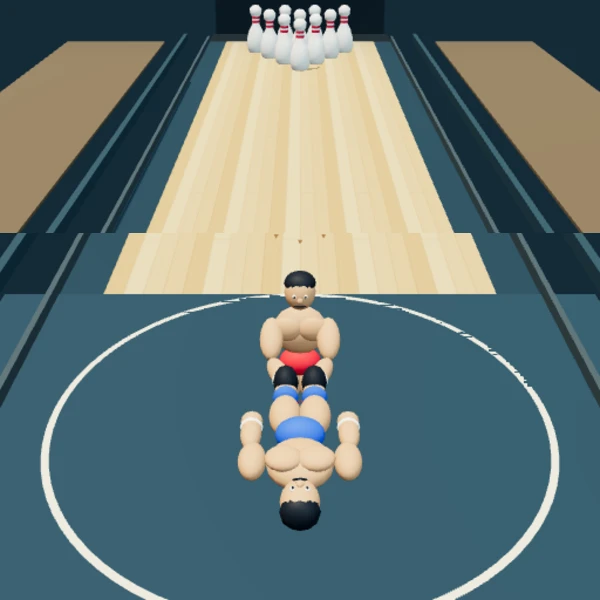
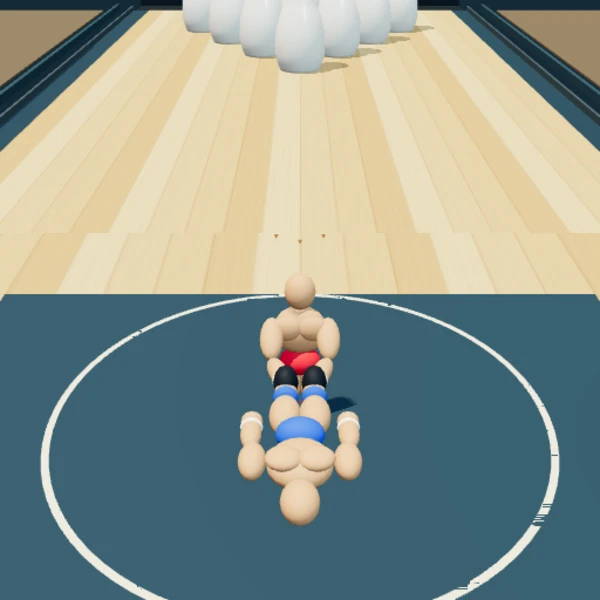
顔と髪を外し巨大ピンとレスラー追従カメラに調整

diff --git a/games/_random-bowling/scene.js b/games/_random-bowling/scene.js
@@ -6,13 +6,13 @@ var ZWrestleScene=(function(){
     this.renderer=new T.WebGLRenderer({antialias:true,alpha:false,preserveDrawingBuffer:true});
     this.renderer.setPixelRatio(1);this.renderer.shadowMap.enabled=true;this.renderer.shadowMap.type=T.PCFSoftShadowMap;
     this.renderer.outputColorSpace=T.SRGBColorSpace;this.renderer.toneMapping=T.ACESFilmicToneMapping;this.renderer.toneMappingExposure=1.25;
-    this.scene=new T.Scene();this.scene.scale.x=-1;this.scene.background=new T.Color('#142a37');this.scene.fog=new T.Fog('#142a37',42,85);
-    this.camera=new T.PerspectiveCamera(52,540/960,.08,100);
+    this.scene=new T.Scene();this.scene.scale.x=-1;this.scene.background=new T.Color('#142a37');this.scene.fog=new T.Fog('#142a37',65,150);
+    this.camera=new T.PerspectiveCamera(52,540/960,.08,350);
     this.camera.position.set(0,9,-12);this.camera.lookAt(0,0,14);
-    this.follow=0;this.followX=0;this.look=new T.Vector3(0,0,9);this.w=540;this.h=960;
+    this.follow=0;this.followX=0;this.look=new T.Vector3(0,.8,12);this.followY=0;this.w=540;this.h=960;
     this.scene.add(new T.HemisphereLight('#deefff','#625743',2.1));
     var light=new T.DirectionalLight('#fff1d5',3.3);light.position.set(-4,14,18);light.castShadow=true;
-    light.shadow.mapSize.set(2048,2048);Object.assign(light.shadow.camera,{left:-8,right:8,top:28,bottom:-28,near:1,far:65});light.target.position.set(0,0,20);light.shadow.bias=-.0002;this.scene.add(light,light.target);
+    light.shadow.mapSize.set(2048,2048);Object.assign(light.shadow.camera,{left:-18,right:18,top:35,bottom:-35,near:1,far:90});light.target.position.set(0,0,20);light.shadow.bias=-.0002;this.scene.add(light,light.target);
     var fill=new T.DirectionalLight('#9dcede',1.3);fill.position.set(5,6,-8);this.scene.add(fill);
     function mat(color,roughness,metalness){return new T.MeshStandardMaterial({color:color,roughness:roughness==null?.5:roughness,metalness:metalness||0});}
     function box(x,y,z,w,h,d,m){var mesh=new T.Mesh(new T.BoxGeometry(w,h,d),m);mesh.position.set(x,y,z);mesh.receiveShadow=true;mesh.castShadow=true;self.scene.add(mesh);return mesh;}
@@ -24,12 +24,12 @@ var ZWrestleScene=(function(){
       for(var y=100+(i%4)*150;y<1024;y+=470){c.fillStyle='rgba(74,48,26,.13)';c.fillRect(i*25.6,y,25.6,1);}
     }
     var wt=new T.CanvasTexture(wood);wt.colorSpace=T.SRGBColorSpace;wt.anisotropy=Math.min(8,this.renderer.capabilities.getMaxAnisotropy());
-    var lane=new T.Mesh(new T.PlaneGeometry(8,39),new T.MeshStandardMaterial({map:wt,roughness:.3,metalness:.05}));lane.rotation.x=-Math.PI/2;lane.position.set(0,.002,16.5);lane.receiveShadow=true;this.scene.add(lane);
-    box(0,-.22,16.5,10,.4,39,mat('#273d49',.5));
-    [-1,1].forEach(function(s){box(s*4.45,-.12,16.5,.9,.13,39,mat('#0a1820',.28,.4));box(s*4.96,.1,16.5,.12,.38,39,mat('#70838b',.28,.65));});
-    box(0,-.28,37.5,10,.3,3,mat('#101d25',.85));box(0,.9,41,10,3,.3,mat('#10222d',.75));
+    var lane=new T.Mesh(new T.PlaneGeometry(20,50),new T.MeshStandardMaterial({map:wt,roughness:.3,metalness:.05}));lane.rotation.x=-Math.PI/2;lane.position.set(0,.002,22);lane.receiveShadow=true;this.scene.add(lane);
+    box(0,-.22,22,22,.4,50,mat('#273d49',.5));
+    [-1,1].forEach(function(s){box(s*10.5,-.12,22,1,.13,50,mat('#0a1820',.28,.4));box(s*11.06,.1,22,.12,.38,50,mat('#70838b',.28,.65));});
+    box(0,-.28,48.5,22,.3,3,mat('#101d25',.85));box(0,3.2,50,22,7,.3,mat('#10222d',.75));
     // 隣のレーンは暗く控えめに置き、奥行きを見せる。
-    [-1,1].forEach(function(s){box(s*10,-.05,16,5.3,.1,40,mat('#675846',.48));box(s*6.2,.22,16,.2,.4,40,mat('#304751',.5));});
+    [-1,1].forEach(function(s){box(s*23,-.05,22,20,.1,50,mat('#675846',.48));box(s*12,.22,22,.2,.4,50,mat('#304751',.5));});
     for(var i=-3;i<=3;i++){var shape=new T.Shape();shape.moveTo(-.055,0);shape.lineTo(.055,0);shape.lineTo(0,.22);shape.closePath();var arrow=new T.Mesh(new T.ShapeGeometry(shape),mat('#765331',.8));arrow.rotation.x=-Math.PI/2;arrow.position.set(i*.55,.009,6.5+Math.abs(i)*.3);this.scene.add(arrow);}
     this.pinMaterial=mat('#f5f0e6',.24,.04);this.redMaterial=mat('#c52d40',.3);
     var profile=[[0,0],[0,.19],[.05,.22],[.19,.26],[.42,.25],[.64,.19],[.81,.105],[1.02,.105],[1.1,.16],[1.24,.17],[1.33,.09],[1.35,.001]];
@@ -56,7 +56,6 @@ var ZWrestleScene=(function(){
     var T=THREE,root=new T.Group(),parts={},skin=new T.MeshStandardMaterial({color:'#d69c74',roughness:.65}),pants=new T.MeshStandardMaterial({color:color,roughness:.65}),black=new T.MeshStandardMaterial({color:'#17202b',roughness:.6}),white=new T.MeshStandardMaterial({color:'#fff3dc',roughness:.6});
     ZWrestlePhysics.parts.forEach(function(p){var g=new T.Group(),geo=new T.SphereGeometry(1,16,12);geo.scale(p.size[0],p.size[1],p.size[2]);var body=new T.Mesh(geo,p.shape==='pelvis'?pants:skin);body.castShadow=true;body.receiveShadow=true;g.add(body);g.position.set(p.p[0],p.p[1],p.p[2]);root.add(g);parts[p.id]=g;
       function ellipsoid(x,y,z,sx,sy,sz,m){var mesh=new T.Mesh(new T.SphereGeometry(1,12,8),m);mesh.position.set(x,y,z);mesh.scale.set(sx,sy,sz);mesh.castShadow=true;g.add(mesh);}
-      if(p.shape==='head'){ellipsoid(0,.13,-.03,.245,.18,.22,black);[-1,1].forEach(function(s){ellipsoid(s*.085,.025,.205,.035,.035,.025,white);ellipsoid(s*.085,.025,.226,.014,.020,.008,black);});ellipsoid(0,-.035,.235,.047,.05,.035,skin);ellipsoid(0,-.14,.20,.095,.018,.02,black);}
       if(p.shape==='shin'){ellipsoid(0,-.16,.065,.18,.22,.25,black);ellipsoid(0,.15,.035,.18,.10,.18,pants);}
       if(p.shape==='forearm'){ellipsoid(0,-.14,0,.155,.07,.15,white);ellipsoid(0,-.26,0,.15,.12,.14,skin);}
     });
@@ -65,9 +64,12 @@ var ZWrestleScene=(function(){
   Scene.prototype.resize=function(w,h){this.w=w;this.h=h;this.renderer.setSize(w,h,false);this.camera.aspect=w/h;this.camera.fov=2*Math.atan(Math.tan(31*Math.PI/180)*(h/w)/(960/540))*180/Math.PI;this.camera.updateProjectionMatrix();};
   Scene.prototype.project=function(x,y,z){var v=new THREE.Vector3(-x,y,z).project(this.camera);return {x:(v.x*.5+.5)*540,y:(.5-v.y*.5)*this.logicalH};};
   Scene.prototype.draw=function(ctx,W,H,data,phase,angle,omega,dt){
-    var T=THREE;this.logicalH=H;var flying=phase==='flight'||phase==='settle',body=data.human[0],target=flying&&body?Math.max(0,Math.min(22,body.z-2)):0;
-    this.follow+=(target-this.follow)*(1-Math.exp(-4*dt));this.followX+=((flying&&body?Math.max(-2,Math.min(2,body.x*.3)):0)-this.followX)*(1-Math.exp(-3*dt));
-    this.camera.position.set(-this.followX,9-this.follow/22*3.5,-12+this.follow);this.camera.lookAt(-this.followX*.5,.8,12+this.follow*.65);this.camera.updateMatrixWorld();
+    var T=THREE;this.logicalH=H;var flying=phase==='flight'||phase==='settle',body=data.human[0];
+    // 前進量を上限で止めず、青レスラーの左右・高さ・奥行きを追う。
+    var track=flying&&body,blend=1-Math.exp(-8*dt);this.follow+=((track?body.z:0)-this.follow)*blend;this.followX+=((track?body.x:0)-this.followX)*blend;this.followY+=((track?body.y:0)-this.followY)*blend;
+    var eye=track?new T.Vector3(-this.followX,this.followY+6.5,this.follow-10):new T.Vector3(0,9,-12);
+    this.camera.position.lerp(eye,1-Math.exp(-9*dt));
+    this.look.lerp(track?new T.Vector3(-body.x,body.y+.4,body.z):new T.Vector3(0,.8,12),1-Math.exp(-12*dt));this.camera.lookAt(this.look);this.camera.updateMatrixWorld();
     this.pins.forEach(function(g,i){var p=data.pins[i];g.position.set(p.x,p.y,p.z);g.quaternion.set(p.q.x,p.q.y,p.q.z,p.q.w);});
     var red=this.red;red.root.rotation.y=Math.PI/2-angle;red.root.position.y=phase==='swing'?Math.sin(angle*2)*.04:0;
     // 赤は足を踏み替え、両手で青の足首を持つ。

diff --git a/games/_random-bowling/physics.js b/games/_random-bowling/physics.js
@@ -1,7 +1,7 @@
 /* レッスルボウル。関節でつないだレスラーと大型ピンの剛体計算。 */
 var ZWrestlePhysics=(function(C){
   'use strict';
-  var scale=1.8,parts=[
+  var scale=4.5,parts=[
     {id:'pelvis',shape:'pelvis',p:[0,1.08,0],size:[.33,.22,.23],mass:16},
     {id:'torso',shape:'torso',p:[0,1.64,0],size:[.43,.40,.24],mass:28},
     {id:'head',shape:'head',p:[0,2.30,0],size:[.24,.29,.23],mass:6}
@@ -26,16 +26,16 @@ var ZWrestlePhysics=(function(C){
     this.world.addContactMaterial(new C.ContactMaterial(this.pinMat,this.humanMat,{friction:.32,restitution:.25}));
     var self=this;
     function box(x,y,z,w,h,d){self.world.addBody(new C.Body({mass:0,material:self.floorMat,collisionFilterGroup:1,shape:new C.Box(new C.Vec3(w/2,h/2,d/2)),position:new C.Vec3(x,y,z)}));}
-    box(0,-.2,18,8,.4,40);box(0,-.2,-1,12,.4,10);
-    [-1,1].forEach(function(s){box(s*4.45,-.4,20,.9,.3,36);box(s*4.96,.1,20,.12,.8,36);});
-    box(0,-.3,39.5,10,.4,3);box(0,1.5,41,10,3,.3);
+    box(0,-.2,22,20,.4,50);box(0,-.2,-1,12,.4,10);
+    [-1,1].forEach(function(s){box(s*10.5,-.4,22,1,.3,50);box(s*11.06,.1,22,.12,.8,50);});
+    box(0,-.3,48.5,22,.4,3);box(0,3.2,50,22,7,.3);
     this.pins=[];this.bodies=[];this.joints=[];this.grabs=[];this.hands=[];this.reset();
   }
   Game.prototype.reset=function(){
     var self=this;this.releaseHands();this.released=false;this.joints.forEach(function(j){self.world.removeConstraint(j);});this.bodies.forEach(function(b){self.world.removeBody(b);});this.pins.forEach(function(p){self.world.removeBody(p.body);});
     this.bodies=[];this.joints=[];this.pins=[];this.time=0;this.accumulator=0;this.impact=0;
     for(var row=0;row<4;row++)for(var col=0;col<=row;col++){
-      var b=new C.Body({mass:6,material:this.pinMat,collisionFilterGroup:2,position:new C.Vec3((col-row/2)*1.5,.47*scale,29+row*1.4),linearDamping:.22,angularDamping:.24});
+      var b=new C.Body({mass:12,material:this.pinMat,collisionFilterGroup:2,position:new C.Vec3((col-row/2)*3.75,.47*scale,29+row*3.5),linearDamping:.22,angularDamping:.24});
       b.addShape(new C.Cylinder(.26*scale,.21*scale,.5*scale,12),new C.Vec3(0,-.20*scale,0));
       b.addShape(new C.Cylinder(.105*scale,.26*scale,.35*scale,12),new C.Vec3(0,.225*scale,0));
       b.addShape(new C.Cylinder(.105*scale,.105*scale,.23*scale,12),new C.Vec3(0,.515*scale,0));
@@ -81,10 +81,10 @@ var ZWrestlePhysics=(function(C){
   Game.prototype.step=function(dt){
     if(!this.bodies.length||this.holding)return;this.accumulator+=Math.min(dt,.1);
     while(this.accumulator>=1/180){var fast=this.bodies.some(function(b){return b.velocity.length()>35;}),steps=fast?4:2;for(var i=0;i<steps;i++)this.world.step(1/180/steps);this.accumulator-=1/180;this.time+=1/180;}
-    this.pins.forEach(function(p){var up=p.body.quaternion.vmult(new C.Vec3(0,1,0));if(up.y<.7||p.body.position.y<.23*scale||Math.abs(p.body.position.x)>4)p.down=true;});
+    this.pins.forEach(function(p){var up=p.body.quaternion.vmult(new C.Vec3(0,1,0));if(up.y<.7||p.body.position.y<.23*scale||Math.abs(p.body.position.x)>10)p.down=true;});
   };
   Game.prototype.snapshot=function(){return {pins:this.pins.map(function(p){var v=pose(p.body);v.down=p.down;return v;}),human:this.bodies.map(function(b,i){var v=pose(b);v.id=parts[i].id;return v;}),time:this.time};};
-  Game.prototype.finished=function(){if(!this.bodies.length||this.holding)return false;if(this.time>9)return true;var center=this.bodies[0].position,still=this.pins.every(function(p){return p.body.velocity.length()<.2&&p.body.angularVelocity.length()<.3;});return this.time>2.5&&still&&(center.y<-3||center.z<-8||Math.abs(center.x)>12||this.bodies.every(function(b){return b.velocity.length()<.4;})||center.z>37);};
+  Game.prototype.finished=function(){if(!this.bodies.length||this.holding)return false;if(this.time>9)return true;var center=this.bodies[0].position,still=this.pins.every(function(p){return p.body.velocity.length()<.2&&p.body.angularVelocity.length()<.3;});return this.time>2.5&&still&&(center.y<-3||center.z<-8||Math.abs(center.x)>24||this.bodies.every(function(b){return b.velocity.length()<.4;})||center.z>47);};
   return {Game:Game,parts:parts,pinScale:scale,swingPose:swingPose,headDirection:headDirection};
 })(typeof CANNON!=='undefined'?CANNON:require('./vendor/cannon.js'));
 if(typeof module!=='undefined')module.exports=ZWrestlePhysics;

diff --git a/games/_tools/tests/random-bowling-render.js b/games/_tools/tests/random-bowling-render.js
@@ -2,7 +2,7 @@
 var fs=require('fs'),path=require('path'),http=require('http'),os=require('os'),cp=require('child_process');
 var root=path.resolve(__dirname,'../../..'),out=fs.mkdtempSync(path.join(os.tmpdir(),'bowling-view-'));
 var child,timer;
-var hook=`window.__visual={hold:function(){down(270,600);for(var i=0;i<180;i++)update(1/60);draw();if(omega<13)throw Error('長押しで最大回転へ加速しない');},fit:function(){var oldH=H,oldAngle=angle;for(var h of [780,960,1200,1700]){H=h;view3d.resize(540,h);for(var a of [0,Math.PI/2,Math.PI,-Math.PI/2]){angle=a;draw();for(var p of ZWrestlePhysics.swingPose(a)){var screen=view3d.project(p.x,p.y,p.z);if(screen.x<8||screen.x>532||screen.y<20||screen.y>h-20)throw Error('回転するレスラーが画面外に出る');}}}H=oldH;angle=oldAngle;layout();draw();},side:function(){angle=.35;draw();}};`;
+var hook=`window.__visual={appearance:function(){if(view3d.red.parts.head.children.length!==1||view3d.blue.parts.head.children.length!==1)throw Error('顔や髪が残っている');},tracking:function(){var p=snapshot.human[0],screen=view3d.project(p.x,p.y,p.z);if(screen.x<60||screen.x>480||screen.y<100||screen.y>H-100)throw Error('飛行中のレスラーが画面から外れる');},hold:function(){down(270,600);for(var i=0;i<180;i++)update(1/60);draw();if(omega<13)throw Error('長押しで最大回転へ加速しない');},fit:function(){var oldH=H,oldAngle=angle;for(var h of [780,960,1200,1700]){H=h;view3d.resize(540,h);for(var a of [0,Math.PI/2,Math.PI,-Math.PI/2]){angle=a;draw();for(var p of ZWrestlePhysics.swingPose(a)){var screen=view3d.project(p.x,p.y,p.z);if(screen.x<8||screen.x>532||screen.y<20||screen.y>h-20)throw Error('回転するレスラーが画面外に出る');}}}H=oldH;angle=oldAngle;layout();draw();},side:function(){angle=.35;draw();}};`;
 
 var runner=`<script>
 window.__recordManual=true;
@@ -11,10 +11,10 @@ window.__recordManual=true;
  async function save(name){var cv=document.getElementById('c');await fetch('/__save/'+name,{method:'POST',body:await new Promise(function(r){cv.toBlob(r,'image/png');})});}
  try{
   for(var i=0;i<100&&!window.__probe.now().modelsReady;i++)await new Promise(function(r){setTimeout(r,50);});
-  if(!window.__probe.now().modelsReady)throw Error('模型を読み込めない');window.__probe.step(1);if(window.__probe.now().scoreTime!==0)throw Error('初期スコアが表示中');window.__visual.fit();await save('構え.png');window.__visual.side();await save('横向き.png');window.__probe.reset();
+  if(!window.__probe.now().modelsReady)throw Error('模型を読み込めない');window.__probe.step(1);if(window.__probe.now().scoreTime!==0)throw Error('初期スコアが表示中');window.__visual.fit();window.__visual.appearance();await save('構え.png');window.__visual.side();await save('横向き.png');window.__probe.reset();
   window.__visual.hold();await save('スイング.png');window.__probe.reset();key();window.__probe.step(90);
   for(var i=0;i<500;i++){window.__probe.step(1);var n=window.__probe.now();if(n.swingTime>2&&n.human[2].z>n.human[0].z&&Math.abs((n.human[2].x-n.human[0].x)/(n.human[2].z-n.human[0].z))<.08)break;}
-  key(true);window.__probe.step(18);await save('投げ.png');window.__probe.step(60);await save('衝突.png');var follow=window.__probe.now().cameraFollow;if(follow<5)throw Error('投げたレスラーを追っていない');
+  key(true);window.__probe.step(18);await save('投げ.png');window.__probe.step(60);await save('衝突.png');window.__visual.tracking();var follow=window.__probe.now().cameraFollow;if(follow<30)throw Error('投げたレスラーを追っていない');
   var frames=0;while(window.__probe.now().phase!=='ready'&&frames++<900)window.__probe.step(1);window.__probe.step(150);var final=window.__probe.now();if(final.phase!=='ready'||final.shot!==1||final.cameraFollow>.1)throw Error('次の投球へ戻れない');
   await fetch('/__done',{method:'POST',body:JSON.stringify({models:true,score:final.score,follow:follow,returned:final.cameraFollow})});
  }catch(e){await fetch('/__fail',{method:'POST',body:e.stack});}

diff --git a/games/_tools/tests/random-bowling-physics.js b/games/_tools/tests/random-bowling-physics.js
@@ -1,7 +1,7 @@
 /* ラグドールの関節が離れず、実際の衝突でピンを倒すことを確認する。 */
 var assert=require('assert'),P=require('../../_random-bowling/physics');
 function shot(angle,dt,omega){var g=new P.Game();g.launch(angle,omega||6.5);var gap=0;while(!g.finished()){g.step(dt);g.joints.forEach(function(j){gap=Math.max(gap,j.bodyA.pointToWorldFrame(j.pivotA).distanceTo(j.bodyB.pointToWorldFrame(j.pivotB)));});g.bodies.forEach(function(b){assert(Number.isFinite(b.position.x+b.position.y+b.position.z));});}assert(gap<.08,'関節が離れない');return {score:g.pins.filter(function(p){return p.down;}).length,gap:gap,g:g};}
-var forward=shot(Math.PI/2+.03,1/60),side=shot(0,1/60),back=shot(-Math.PI/2,1/60);assert(forward.score>0);assert.equal(side.score,0);assert.equal(back.score,0);assert.equal(forward.g.bodies.length,11);assert.equal(forward.g.joints.length,10);assert.equal(P.pinScale,1.8);
+var forward=shot(Math.PI/2+.03,1/60),side=shot(0,1/60),back=shot(-Math.PI/2,1/60);assert(forward.score>0);assert.equal(side.score,0);assert.equal(back.score,0);assert.equal(forward.g.bodies.length,11);assert.equal(forward.g.joints.length,10);assert.equal(P.pinScale,4.5);
 var a=shot(Math.PI/2+.03,1/30),b=shot(Math.PI/2+.03,1/120);assert.equal(a.score,forward.score);assert.equal(b.score,forward.score);
 var torso=forward.g.bodies[1].quaternion,arm=forward.g.bodies[3].quaternion;assert(Math.abs(torso.x-arm.x)+Math.abs(torso.y-arm.y)+Math.abs(torso.z-arm.z)>.1,'手足は胴体と別々に回転する');
 console.log(JSON.stringify({正面:forward.score,横:side.score,後ろ:back.score,関節の最大隙間:forward.gap,ピン倍率:P.pinScale}));

diff --git a/games/_random-bowling/README.md b/games/_random-bowling/README.md
@@ -12,7 +12,7 @@
 - `physics.js`：cannon-es による剛体と関節。青レスラーは11部位、10関節。質量の合計は92。
 - `scene.js`：Three.jsで描画。赤は足首を握る姿勢で回転し、青は回転中から剛体の位置・回転をそのまま描く。
 - `wrestlers.json`：Blenderで作ったレスラーの部位。パンツ・膝当ては赤と青、ブーツは黒、手首は白。
-- `models.json`：Blenderで作った底面の閉じたピン。従来から縦横1.8倍、1本の質量は6。
+- `models.json`：Blenderで作った底面の閉じたピン。前の大型ピンから縦横2.5倍（初期から4.5倍）、1本の質量は12。レーン幅は20、長さは50に拡張。
 - `index.html`：入力、進行、音、スコア、共有。描画は既存の録画用canvasへ合成する。
 
 回転は毎秒1.8ラジアンから14ラジアンへ加速する。最大は以前の長押し式の2倍（毎秒約2.2回転）。3秒で約13.1ラジアンへ達する。
@@ -20,7 +20,7 @@
 基本の進行は毎秒180回、衝突は毎秒360回、高速時は720回。回転中も毎秒720回の計算で足首だけを両手へ拘束し、他の部位は自由に揺れる。関節の曲がり角・ねじれを制限し、部位同士の自己衝突は除く。
 ピンの傾きが約46度を超えるかレーン外へ落ちると倒れたと数える。飛び方を台本で決める処理は使わない。
 
-カメラは投げた青レスラーを追ってピンへ寄り、次の投球では元へ戻る。
+カメラは投げた青レスラーの左右・高さ・奥行きを追い続け、次の投球では元へ戻る。追従距離に上限は設けない。レスラーには顔と髪を付けない。
 下書きの既存URLを保つため、フォルダと手元のIDは `random-bowling` のまま。表示名はレッスルボウル。
 
 ## 確認
